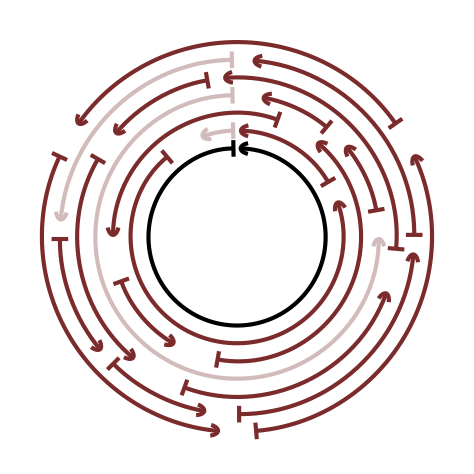
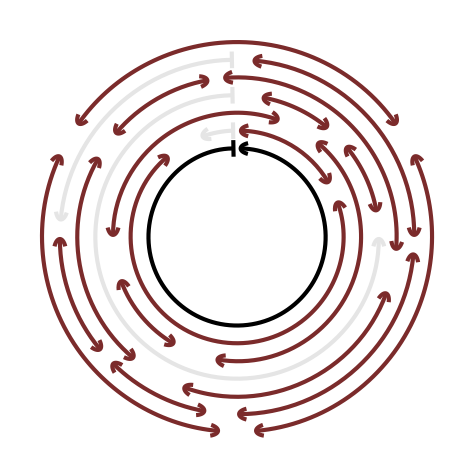
Update line/circle topology example figures

diff --git a/2_spaces/figures/structures/general_topology/circle_topology/circle_topology.tex b/2_spaces/figures/structures/general_topology/circle_topology/circle_topology.tex
@@ -32,32 +32,32 @@
   
   \draw[{|[width=4]}-{Parenthesis[width=4]}, line width=1] (-269:{0.75}) arc (-269:89:{0.75});
  
-  \draw[{|[width=4]}-{Parenthesis[width=4]}, light, line width=1] (-269:{0.9}) arc (-269:-250:{0.9});
-  \draw[{|[width=4]}-{Parenthesis[width=4]}, dark, line width=1] (-230:{0.9}) arc (-230:20:{0.9});
-  \draw[{|[width=4]}-{Parenthesis[width=4]}, dark, line width=1] (30:{0.9}) arc (30:89:{0.9});
+  \draw[{|[width=4]}-{Parenthesis[width=4]}, gray90, line width=1] (-269:{0.9}) arc (-269:-250:{0.9});
+  \draw[{Parenthesis[width=4]}-{Parenthesis[width=4]}, dark, line width=1] (-230:{0.9}) arc (-230:20:{0.9});
+  \draw[{Parenthesis[width=4]}-{Parenthesis[width=4]}, dark, line width=1] (30:{0.9}) arc (30:89:{0.9});
 
-  \draw[{|[width=4]}-{Parenthesis[width=4]}, dark, line width=1] (-290:{1.05}) arc (-290:-180:{1.05});
-  \draw[{|[width=4]}-{Parenthesis[width=4]}, dark, line width=1] (-160:{1.05}) arc (-160:-120:{1.05});
-  \draw[{|[width=4]}-{Parenthesis[width=4]}, dark, line width=1] (-100:{1.05}) arc (-100:50:{1.05});
+  \draw[{Parenthesis[width=4]}-{Parenthesis[width=4]}, dark, line width=1] (-290:{1.05}) arc (-290:-180:{1.05});
+  \draw[{Parenthesis[width=4]}-{Parenthesis[width=4]}, dark, line width=1] (-160:{1.05}) arc (-160:-120:{1.05});
+  \draw[{Parenthesis[width=4]}-{Parenthesis[width=4]}, dark, line width=1] (-100:{1.05}) arc (-100:50:{1.05});
 
-  \draw[{|[width=4]}-{Parenthesis[width=4]}, light, line width=1] (-269:{1.2}) arc (-269:0:{1.2});
-  \draw[{|[width=4]}-{Parenthesis[width=4]}, dark, line width=1] (10:{1.2}) arc (10:40:{1.2});
-  \draw[{|[width=4]}-{Parenthesis[width=4]}, dark, line width=1] (50:{1.2}) arc (50:80:{1.2});
+  \draw[{|[width=4]}-{Parenthesis[width=4]}, gray90, line width=1] (-269:{1.2}) arc (-269:0:{1.2});
+  \draw[{Parenthesis[width=4]}-{Parenthesis[width=4]}, dark, line width=1] (10:{1.2}) arc (10:40:{1.2});
+  \draw[{Parenthesis[width=4]}-{Parenthesis[width=4]}, dark, line width=1] (50:{1.2}) arc (50:80:{1.2});
 
-  \draw[{|[width=4]}-{Parenthesis[width=4]}, dark, line width=1] (-260:{1.35}) arc (-260:-220:{1.35});
-  \draw[{|[width=4]}-{Parenthesis[width=4]}, dark, line width=1] (-210:{1.35}) arc (-210:-130:{1.35});
-  \draw[{|[width=4]}-{Parenthesis[width=4]}, dark, line width=1] (-110:{1.35}) arc (-110:-20:{1.35});
-  \draw[{|[width=4]}-{Parenthesis[width=4]}, dark, line width=1] (-5:{1.35}) arc (-5:95:{1.35});
+  \draw[{Parenthesis[width=4]}-{Parenthesis[width=4]}, dark, line width=1] (-260:{1.35}) arc (-260:-220:{1.35});
+  \draw[{Parenthesis[width=4]}-{Parenthesis[width=4]}, dark, line width=1] (-210:{1.35}) arc (-210:-130:{1.35});
+  \draw[{Parenthesis[width=4]}-{Parenthesis[width=4]}, dark, line width=1] (-110:{1.35}) arc (-110:-20:{1.35});
+  \draw[{Parenthesis[width=4]}-{Parenthesis[width=4]}, dark, line width=1] (-5:{1.35}) arc (-5:95:{1.35});
 
-  \draw[{|[width=4]}-{Parenthesis[width=4]}, light, line width=1] (-269:{1.5}) arc (-269:-185:{1.5});
-  \draw[{|[width=4]}-{Parenthesis[width=4]}, dark, line width=1] (-180:{1.5}) arc (-180:-140:{1.5});
-  \draw[{|[width=4]}-{Parenthesis[width=4]}, dark, line width=1] (-135:{1.5}) arc (-135:-100:{1.5});
-  \draw[{|[width=4]}-{Parenthesis[width=4]}, dark, line width=1] (-90:{1.5}) arc (-90:-5:{1.5});
-  \draw[{|[width=4]}-{Parenthesis[width=4]}, dark, line width=1] (0:{1.5}) arc (0:85:{1.5});
+  \draw[{|[width=4]}-{Parenthesis[width=4]}, gray90, line width=1] (-269:{1.5}) arc (-269:-185:{1.5});
+  \draw[{Parenthesis[width=4]}-{Parenthesis[width=4]}, dark, line width=1] (-180:{1.5}) arc (-180:-140:{1.5});
+  \draw[{Parenthesis[width=4]}-{Parenthesis[width=4]}, dark, line width=1] (-135:{1.5}) arc (-135:-100:{1.5});
+  \draw[{Parenthesis[width=4]}-{Parenthesis[width=4]}, dark, line width=1] (-90:{1.5}) arc (-90:-5:{1.5});
+  \draw[{Parenthesis[width=4]}-{Parenthesis[width=4]}, dark, line width=1] (0:{1.5}) arc (0:85:{1.5});
   
-  \draw[{|[width=4]}-{Parenthesis[width=4]}, dark, line width=1] (-205:{1.65}) arc (-205:-95:{1.65});
-  \draw[{|[width=4]}-{Parenthesis[width=4]}, dark, line width=1] (-85:{1.65}) arc (-85:25:{1.65});
-  \draw[{|[width=4]}-{Parenthesis[width=4]}, dark, line width=1] (35:{1.65}) arc (35:145:{1.65});
+  \draw[{Parenthesis[width=4]}-{Parenthesis[width=4]}, dark, line width=1] (-205:{1.65}) arc (-205:-95:{1.65});
+  \draw[{Parenthesis[width=4]}-{Parenthesis[width=4]}, dark, line width=1] (-85:{1.65}) arc (-85:25:{1.65});
+  \draw[{Parenthesis[width=4]}-{Parenthesis[width=4]}, dark, line width=1] (35:{1.65}) arc (35:145:{1.65});
 
 \end{tikzpicture}
 

diff --git a/2_spaces/figures/structures/general_topology/line_topology/line_topology.tex b/2_spaces/figures/structures/general_topology/line_topology/line_topology.tex
@@ -34,32 +34,32 @@
     
   \draw[{|[width=4]}-{Parenthesis[width=4]}, line width=1] (-269:{0.75}) arc (-269:89:{0.75});
  
-  \draw[{|[width=4]}-{Parenthesis[width=4]}, dark, line width=1] (-269:{0.9}) arc (-269:-250:{0.9});
-  \draw[{|[width=4]}-{Parenthesis[width=4]}, dark, line width=1] (-230:{0.9}) arc (-230:20:{0.9});
-  \draw[{|[width=4]}-{Parenthesis[width=4]}, dark, line width=1] (30:{0.9}) arc (30:89:{0.9});
+  \draw[{|[width=4]}-{Parenthesis[width=4]}, light, line width=1] (-269:{0.9}) arc (-269:-250:{0.9});
+  \draw[{Parenthesis[width=4]}-{Parenthesis[width=4]}, dark, line width=1] (-230:{0.9}) arc (-230:20:{0.9});
+  \draw[{Parenthesis[width=4]}-{Parenthesis[width=4]}, dark, line width=1] (30:{0.9}) arc (30:89:{0.9});
 
-  \draw[{|[width=4]}-{Parenthesis[width=4]}, dark, line width=1] (-290:{1.05}) arc (-290:-180:{1.05});
-  \draw[{|[width=4]}-{Parenthesis[width=4]}, dark, line width=1] (-160:{1.05}) arc (-160:-120:{1.05});
-  \draw[{|[width=4]}-{Parenthesis[width=4]}, dark, line width=1] (-100:{1.05}) arc (-100:50:{1.05});
+  \draw[{Parenthesis[width=4]}-{Parenthesis[width=4]}, dark, line width=1] (-290:{1.05}) arc (-290:-180:{1.05});
+  \draw[{Parenthesis[width=4]}-{Parenthesis[width=4]}, dark, line width=1] (-160:{1.05}) arc (-160:-120:{1.05});
+  \draw[{Parenthesis[width=4]}-{Parenthesis[width=4]}, dark, line width=1] (-100:{1.05}) arc (-100:50:{1.05});
 
-  \draw[{|[width=4]}-{Parenthesis[width=4]}, dark, line width=1] (-269:{1.2}) arc (-269:0:{1.2});
-  \draw[{|[width=4]}-{Parenthesis[width=4]}, dark, line width=1] (10:{1.2}) arc (10:40:{1.2});
-  \draw[{|[width=4]}-{Parenthesis[width=4]}, dark, line width=1] (50:{1.2}) arc (50:80:{1.2});
+  \draw[{|[width=4]}-{Parenthesis[width=4]}, light, line width=1] (-269:{1.2}) arc (-269:0:{1.2});
+  \draw[{Parenthesis[width=4]}-{Parenthesis[width=4]}, dark, line width=1] (10:{1.2}) arc (10:40:{1.2});
+  \draw[{Parenthesis[width=4]}-{Parenthesis[width=4]}, dark, line width=1] (50:{1.2}) arc (50:80:{1.2});
 
-  \draw[{|[width=4]}-{Parenthesis[width=4]}, dark, line width=1] (-260:{1.35}) arc (-260:-220:{1.35});
-  \draw[{|[width=4]}-{Parenthesis[width=4]}, dark, line width=1] (-210:{1.35}) arc (-210:-130:{1.35});
-  \draw[{|[width=4]}-{Parenthesis[width=4]}, dark, line width=1] (-110:{1.35}) arc (-110:-20:{1.35});
-  \draw[{|[width=4]}-{Parenthesis[width=4]}, dark, line width=1] (-5:{1.35}) arc (-5:95:{1.35});
+  \draw[{Parenthesis[width=4]}-{Parenthesis[width=4]}, dark, line width=1] (-260:{1.35}) arc (-260:-220:{1.35});
+  \draw[{Parenthesis[width=4]}-{Parenthesis[width=4]}, dark, line width=1] (-210:{1.35}) arc (-210:-130:{1.35});
+  \draw[{Parenthesis[width=4]}-{Parenthesis[width=4]}, dark, line width=1] (-110:{1.35}) arc (-110:-20:{1.35});
+  \draw[{Parenthesis[width=4]}-{Parenthesis[width=4]}, dark, line width=1] (-5:{1.35}) arc (-5:95:{1.35});
 
-  \draw[{|[width=4]}-{Parenthesis[width=4]}, dark, line width=1] (-269:{1.5}) arc (-269:-185:{1.5});
-  \draw[{|[width=4]}-{Parenthesis[width=4]}, dark, line width=1] (-180:{1.5}) arc (-180:-140:{1.5});
-  \draw[{|[width=4]}-{Parenthesis[width=4]}, dark, line width=1] (-135:{1.5}) arc (-135:-100:{1.5});
-  \draw[{|[width=4]}-{Parenthesis[width=4]}, dark, line width=1] (-90:{1.5}) arc (-90:-5:{1.5});
-  \draw[{|[width=4]}-{Parenthesis[width=4]}, dark, line width=1] (0:{1.5}) arc (0:85:{1.5});
+  \draw[{|[width=4]}-{Parenthesis[width=4]}, light, line width=1] (-269:{1.5}) arc (-269:-185:{1.5});
+  \draw[{Parenthesis[width=4]}-{Parenthesis[width=4]}, dark, line width=1] (-180:{1.5}) arc (-180:-140:{1.5});
+  \draw[{Parenthesis[width=4]}-{Parenthesis[width=4]}, dark, line width=1] (-135:{1.5}) arc (-135:-100:{1.5});
+  \draw[{Parenthesis[width=4]}-{Parenthesis[width=4]}, dark, line width=1] (-90:{1.5}) arc (-90:-5:{1.5});
+  \draw[{Parenthesis[width=4]}-{Parenthesis[width=4]}, dark, line width=1] (0:{1.5}) arc (0:85:{1.5});
   
-  \draw[{|[width=4]}-{Parenthesis[width=4]}, dark, line width=1] (-205:{1.65}) arc (-205:-95:{1.65});
-  \draw[{|[width=4]}-{Parenthesis[width=4]}, dark, line width=1] (-85:{1.65}) arc (-85:25:{1.65});
-  \draw[{|[width=4]}-{Parenthesis[width=4]}, dark, line width=1] (35:{1.65}) arc (35:145:{1.65});
+  \draw[{Parenthesis[width=4]}-{Parenthesis[width=4]}, dark, line width=1] (-205:{1.65}) arc (-205:-95:{1.65});
+  \draw[{Parenthesis[width=4]}-{Parenthesis[width=4]}, dark, line width=1] (-85:{1.65}) arc (-85:25:{1.65});
+  \draw[{Parenthesis[width=4]}-{Parenthesis[width=4]}, dark, line width=1] (35:{1.65}) arc (35:145:{1.65});
 
 \end{tikzpicture}
 
